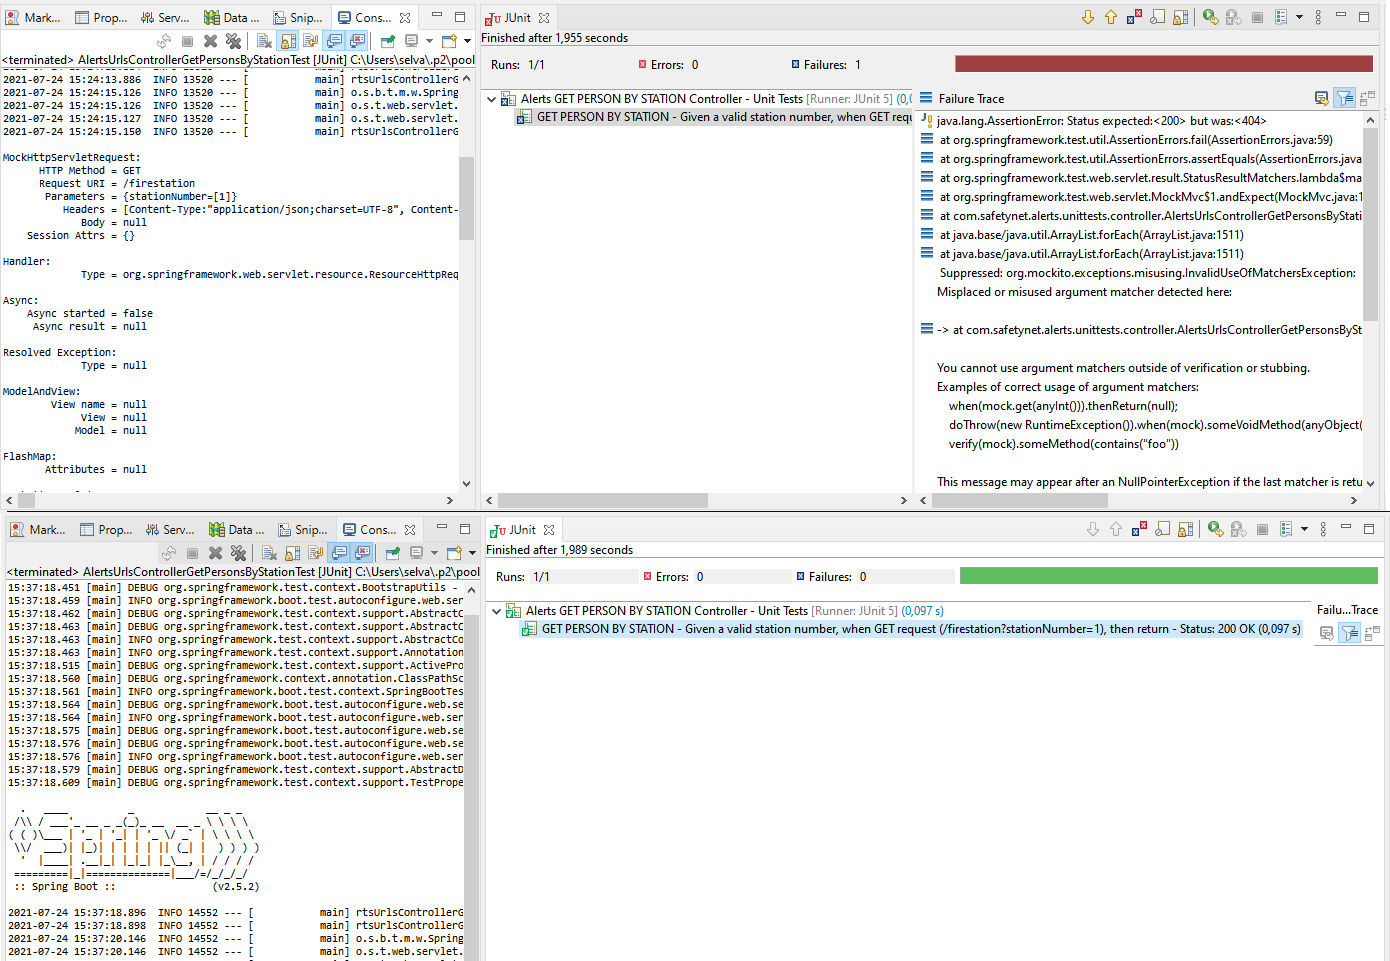
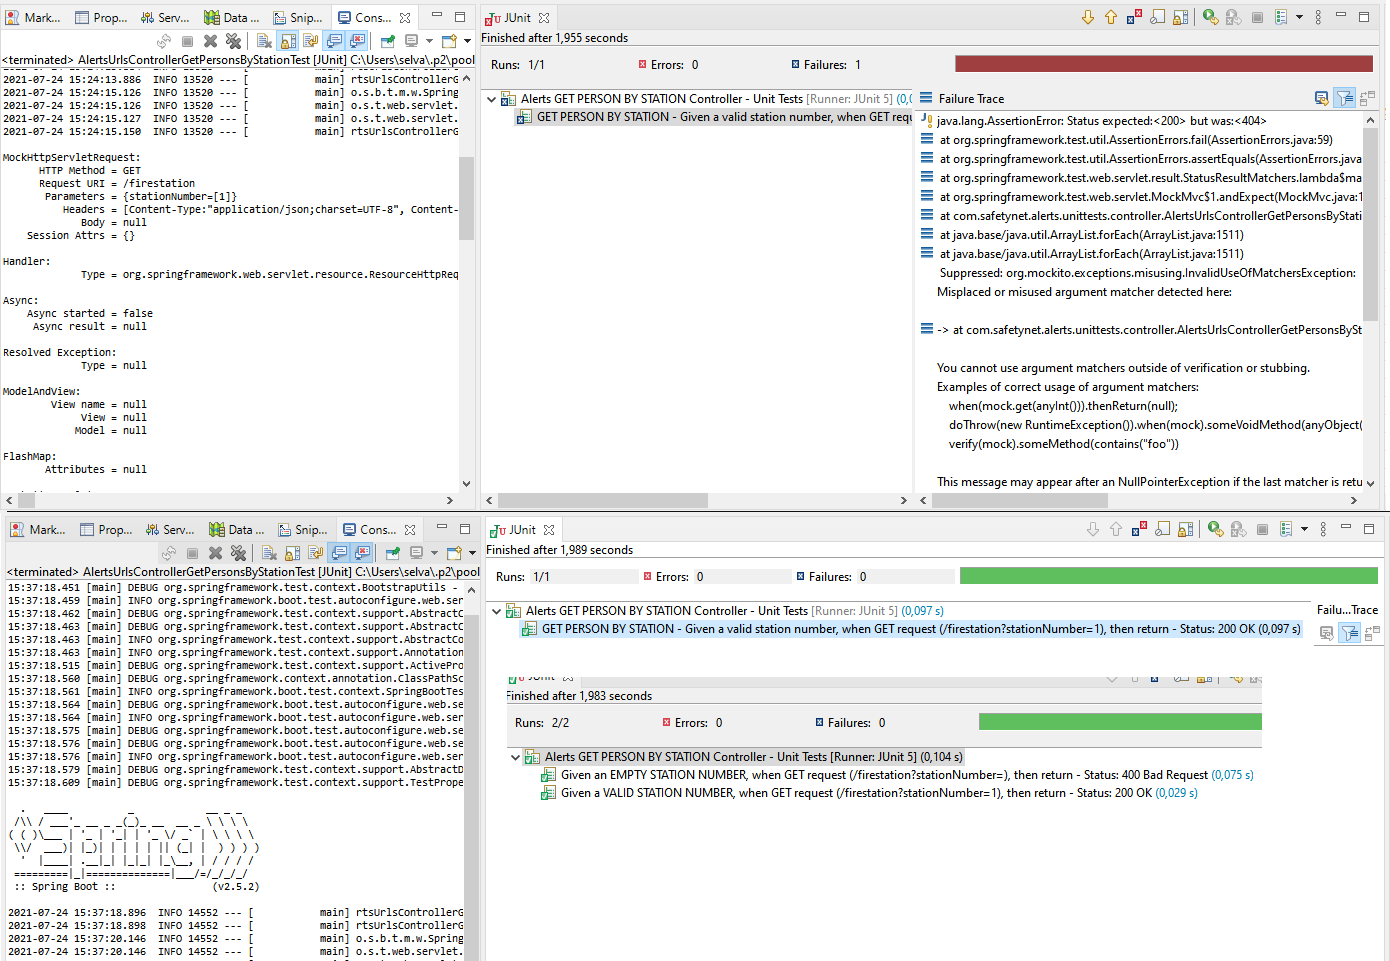
[TEST CASES] GetPersonsByStation Unit Test Implementation - Empty input - RunStatus: PASSED

Changed region(s): [[0.3712, 0.6868, 0.9281, 0.8429]]

diff --git a/src/test/java/com/safetynet/alerts/unittests/controller/AlertsUrlsControllerGetPersonsByStationTest.java b/src/test/java/com/safetynet/alerts/unittests/controller/AlertsUrlsControllerGetPersonsByStationTest.java
@@ -39,8 +39,7 @@ class AlertsUrlsControllerGetPersonsByStationTest {
     
 
     @Test
-    @DisplayName("GET PERSON BY STATION"
-    		+ " - Given a valid station number,"
+    @DisplayName("Given a VALID STATION NUMBER,"
     		+ " when GET request (/firestation?stationNumber=1),"
     		+ " then return - Status: 200 OK")
     public void testGetPersonsByStationRequestWithValidStationId() throws Exception {
@@ -58,6 +57,22 @@ class AlertsUrlsControllerGetPersonsByStationTest {
         verify(alertsService)
         .getPersonsByStation(anyInt());
         verify(alertsService, times(1))
+        .getPersonsByStation(anyInt());
+    }
+    
+    @Test
+    @DisplayName("Given an EMPTY STATION NUMBER,"
+    		+ " when GET request (/firestation?stationNumber=),"
+    		+ " then return - Status: 400 Bad Request")
+    public void testGetPersonsByStationRequestWithEmptyStationNumberAsInput() throws Exception {
+        mockMvc.perform(MockMvcRequestBuilders
+        		.get("/firestation?stationNumber=")
+                .contentType(MediaType.APPLICATION_JSON)
+                .content(displayAsJsonString(personsByStationEndpointUrlDTO)))
+                .andExpect(status()
+                		.isBadRequest());
+
+        verify(alertsService, times(0))
         .getPersonsByStation(anyInt());
     }
 
